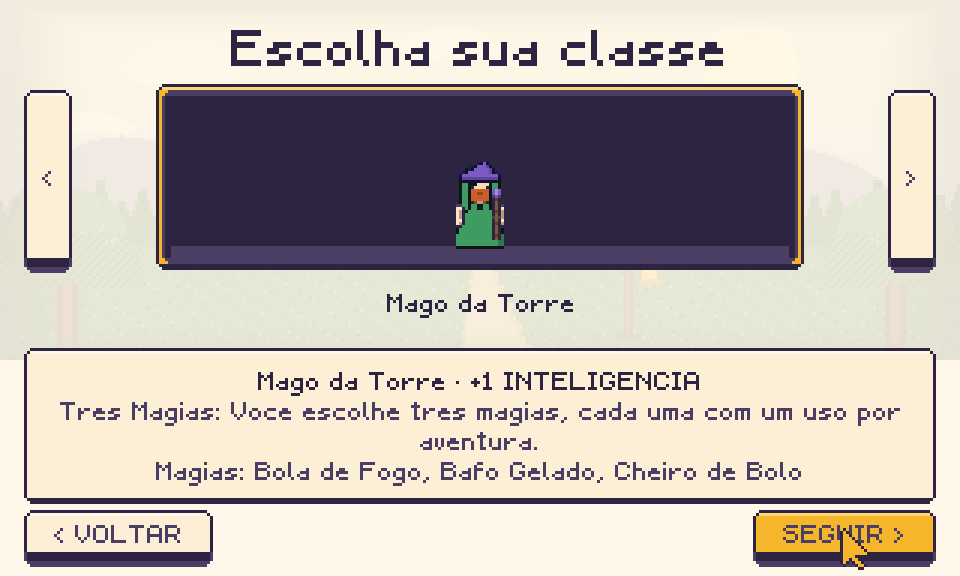
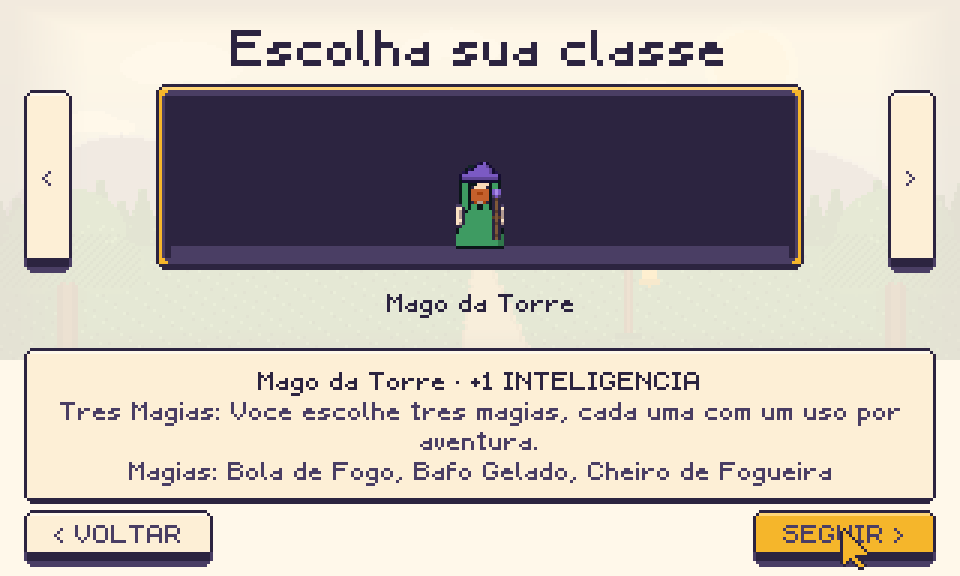
Liga as marcas as condicoes de verdade, e refeitura de 8 das 11 magias
O jogo de verdade nunca chamava aplicarMarca(): toda magia, mesmo as ja
animadas (Bafo Gelado, Bola de Fogo), so causava dano generico. A marca
existia so no papel. Agora Combate.ts aplica a marca de cada acao no bicho
atingido, guarda a lista de condicoes por Bicho e desenha um quadrado
colorido acima da cabeca pra cada uma, sem nunca empilhar.

aplicarMarca() ganha seis reacoes novas (luz revela quem tava escondido,
planta/cola prende, doce atrai, bolha protege, som-alto assusta), as que as
magias de debuff e buff desta leva realmente carregam. Fogo/agua (que pede
superficie de chao) e vento/pulo/conserto/fala/corta/quebra/empurra (efeito
direto, nao condicao) ficam de fora de proposito, documentado no cabecalho
do arquivo.

8 das 13 magias trocam de nome e texto pra soar menos infantil (Cheiro de
Bolo -> Cheiro de Fogueira, Sumir-Sumindo -> Veu de Sombra, Dedo Colante ->
Aderencia, etc); as que ja soavam adultas ou eram puramente funcionais
ficam como estao, caso a caso. Os ids nao mudam, entao heroi.magias,
CLASSES.magias, TABELA_DE_MAGIA e MAGIAS_SOM continuam validos.

Confirmado ao vivo: Cresce-Grama (marca planta) lancado num lobo-nevoa
aplicou "preso" e desenhou o quadrado verde acima dele, sem erro no
console.

npm run build, condicoes, conferir, criatura e auditar (36 telas, 0
problemas) saem limpos.

Changed region(s): [[0.125, 0.7812, 0.875, 0.8438]]

diff --git a/src/cenas/Combate.ts b/src/cenas/Combate.ts
@@ -27,6 +27,8 @@ import type { Atributo } from "../dados/conteudo";
 import { tocar, tocarFicha } from "../sistemas/som";
 import { texto } from "../sistemas/texto";
 import { Ordem } from "../sistemas/turnos";
+import { aplicarMarca, type Condicao, type Marca } from "../sistemas/marcas";
+import { condicoesDados } from "../dados/condicoes-dados";
 import type { Mundo } from "./Mundo";
 
 const SLOT = 22;
@@ -53,6 +55,10 @@ type Bicho = {
   pips?: Phaser.GameObjects.Container;
   mostrarAte: number;
   rota: Casa[];
+  /** revisao de 2026-09-04: antes disto, `acao.marca` nunca era lido - toda
+   *  magia so causava dano generico, por baixo do efeito visual bonito. */
+  condicoes: Condicao[];
+  condicoesUI?: Phaser.GameObjects.Container;
 };
 
 type Slot = {
@@ -242,7 +248,7 @@ export class Combate extends Phaser.Scene {
       id, bicharioId, chave, nome, bonus,
       retrato: ICONE.retrato[spriteChave.replace("goblin-", "")] ?? 1,
       sprite: s, corpo: s.body as Phaser.Physics.Arcade.Body, tipo: "goblin",
-      coracoes, coracoesMax: coracoes, mostrarAte: 0, rota: [],
+      coracoes, coracoesMax: coracoes, mostrarAte: 0, rota: [], condicoes: [],
     });
   }
 
@@ -708,7 +714,10 @@ export class Combate extends Phaser.Scene {
             projetilOrientado(this, this.heroi.x, this.heroi.y - 8, px, py, 0x7ec4f2, 5, 6, 160, () => {
               pegos
                 .filter((b) => this.mesmaCasa(this.casaDoBicho(b), c.tx, c.ty))
-                .forEach((b) => this.atingir(b, px, py, resultado.desfecho === "critico-sucesso", "gelo"));
+                .forEach((b) => {
+                  this.atingir(b, px, py, resultado.desfecho === "critico-sucesso", "gelo");
+                  if (acao.marca) this.aplicarMarcaNoBicho(b, acao.marca);
+                });
             });
           });
         });
@@ -723,7 +732,10 @@ export class Combate extends Phaser.Scene {
         // Bola de Fogo trava.
         ondaDeConjuracao(this, this.heroi.x, this.heroi.y, 0xf2802b, 16);
         projetil(this, this.heroi.x, this.heroi.y - 8, cx, cy, 0xf2802b, 3, 220, () => {
-          pegos.forEach((b) => this.atingir(b, cx, cy, resultado.desfecho === "critico-sucesso"));
+          pegos.forEach((b) => {
+            this.atingir(b, cx, cy, resultado.desfecho === "critico-sucesso");
+            if (acao.marca) this.aplicarMarcaNoBicho(b, acao.marca);
+          });
           estourinho(this, cx, cy, 0xf2802b, 8, 12);
           hitstop(this, 60);
           this.cameras.main.shake(100, 0.003);
@@ -731,7 +743,14 @@ export class Combate extends Phaser.Scene {
         });
         return;
       } else {
-        pegos.forEach((b) => this.atingir(b, cx, cy, resultado.desfecho === "critico-sucesso"));
+        pegos.forEach((b) => {
+          this.atingir(b, cx, cy, resultado.desfecho === "critico-sucesso");
+          // e aqui que as 11 magias sem animacao propria (Cresce-Grama, Voz
+          // de Trovao, Cheiro de Fogueira, Rajada...) ganham reacao de
+          // verdade, mesmo sem projetil dedicado - o dano generico continua,
+          // a marca por cima e o que muda de verdade.
+          if (acao.marca) this.aplicarMarcaNoBicho(b, acao.marca);
+        });
         // o martelo pesa mais que espada, cajado ou soco: o mesmo golpe corpo
         // a corpo (passo 3 do plano), so essa arma ganha o micro-engasgo.
         if (acao.id === "golpe-martelo") hitstop(this, 50);
@@ -854,6 +873,7 @@ export class Combate extends Phaser.Scene {
     this.bichos = this.bichos.filter((o) => o !== b);
     b.corpo?.setVelocity(0, 0);
     b.pips?.destroy();
+    b.condicoesUI?.destroy();
     if (b.tipo === "goblin") {
       tocarFicha(CRIATURAS_SOM.pequeno.desiste);
       if (b.chave) {
@@ -910,6 +930,39 @@ export class Combate extends Phaser.Scene {
     b.pips = this.add.container(b.sprite.x, b.sprite.y - 36, [g]).setDepth(2000);
     b.pips.setScale(0.6);
     this.tweens.add({ targets: b.pips, scale: 1, duration: 140, ease: "Back.easeOut" });
+  }
+
+  /** As condicoes de verdade acima da cabeca (acima dos coracoes) - MOLHADO,
+   *  PRESO, ASSUSTADO etc, no mesmo molde que Provador.ts ja usava. Max 3
+   *  visiveis: as 11 magias novas raramente empilham mais que isso numa
+   *  criatura so, e "+N" pode esperar o dia que empilhar. */
+  private mostrarCondicoes(b: Bicho) {
+    b.condicoesUI?.destroy();
+    if (b.condicoes.length === 0) return;
+    const visiveis = b.condicoes.slice(0, 3);
+    const largura = visiveis.length * 10 - 2;
+    const g = this.add.graphics();
+    visiveis.forEach((cond, i) => {
+      const ficha = condicoesDados(cond.id);
+      const x = -largura / 2 + i * 10;
+      g.fillStyle(ficha.cor, 1).fillRect(x, 0, 8, 8);
+      g.lineStyle(1, 0x2c2440, 0.8).strokeRect(x + 0.5, 0.5, 7, 7);
+    });
+    b.condicoesUI = this.add.container(b.sprite.x, b.sprite.y - 46, [g]).setDepth(2000);
+    popIn(this, b.condicoesUI, 140, 0.6);
+  }
+
+  /** O elo que faltava entre `acao.marca` (que so alimentava a cor do efeito
+   *  visual) e o motor de condicoes de verdade - antes desta revisao (2026-
+   *  09-04) NENHUMA magia do jogo real chamava `aplicarMarca()`, nem Bafo
+   *  Gelado ou Bola de Fogo. As condicoes aplicadas aqui ainda nao contam os
+   *  proprios turnos (isso pede passarTurno() rodando em entrarNoTurno(),
+   *  fica pro proximo passo) - mas a marca agora MUDA o bicho de verdade, em
+   *  vez de so colorir um flash. */
+  private aplicarMarcaNoBicho(b: Bicho, marca: Marca) {
+    const resultado = aplicarMarca(marca, b.condicoes);
+    b.condicoes = resultado.condicoesNovas;
+    this.mostrarCondicoes(b);
   }
 
   // =================================================================== update
@@ -1030,11 +1083,15 @@ export class Combate extends Phaser.Scene {
   private cuidarDosPips() {
     const agora = this.time.now;
     this.bichos.forEach((b) => {
-      if (!b.pips) return;
-      b.pips.setPosition(b.sprite.x, b.sprite.y - 36);
-      if (agora > b.mostrarAte && b.pips.alpha > 0) {
-        b.pips.setAlpha(Math.max(0, b.pips.alpha - 0.04));
+      if (b.pips) {
+        b.pips.setPosition(b.sprite.x, b.sprite.y - 36);
+        if (agora > b.mostrarAte && b.pips.alpha > 0) {
+          b.pips.setAlpha(Math.max(0, b.pips.alpha - 0.04));
+        }
       }
+      // condicoes nunca desbotam sozinhas (diferente dos pips de dano) -
+      // elas representam um estado que continua valendo, so seguem o bicho.
+      b.condicoesUI?.setPosition(b.sprite.x, b.sprite.y - 46);
     });
   }
 

diff --git a/src/dados/conteudo.ts b/src/dados/conteudo.ts
@@ -217,19 +217,26 @@ export const CLASSES: Classe[] = [
 // ---------------------------------------------------------------- magias
 export type Magia = { id: string; nome: string; texto: string; cor: number };
 
+/** Revisao de 2026-09-04: oito das treze ganharam nome e clima novos, "caso a
+ *  caso" como o Hugo pediu - nao um reskin em bloco. O `id` de cada uma NAO
+ *  mudou (evita quebrar heroi.magias salvo, CLASSES.magias, TABELA_DE_MAGIA
+ *  em sistemas/acao.ts e MAGIAS_SOM em dados/sons.ts, que continuam
+ *  referenciando o id antigo) - so o que o jogador LE mudou. As que ja
+ *  soavam adultas (Voz de Trovao, Bafo Gelado, Bola de Fogo) ou ja eram so
+ *  funcionais (Cresce-Grama, Remendo) ficaram como estavam. */
 export const MAGIAS: Magia[] = [
-  { id: "luzinha", nome: "Luzinha", texto: "Uma bolinha de luz flutua e ilumina o caminho.", cor: 0xf5b62b },
+  { id: "luzinha", nome: "Fogo-Fatuo", texto: "Uma luz fraca que ilumina o escuro e revela quem estava escondido.", cor: 0xf5b62b },
   { id: "bafo-gelado", nome: "Bafo Gelado", texto: "Um sopro que congela agua, fogo e ate goblin.", cor: 0x7ec4f2 },
-  { id: "cresce-grama", nome: "Cresce-Grama", texto: "A grama cresce alta e vira escada, corda ou esconderijo.", cor: 0x3e9b62 },
-  { id: "voz-de-trovao", nome: "Voz de Trovao", texto: "Sua voz fica tao alta que todo mundo para pra ouvir.", cor: 0x4a3e64 },
-  { id: "pulo-de-sapo", nome: "Pulo de Sapo", texto: "Um pulo enorme, por cima de rio, muro ou monstro.", cor: 0x3e9b62 },
-  { id: "dedo-colante", nome: "Dedo Colante", texto: "Suas maos grudam em qualquer parede.", cor: 0xee7ba6 },
-  { id: "remendo", nome: "Remendo", texto: "Junta de volta uma coisa quebrada.", cor: 0xb08658 },
-  { id: "escudo-de-bolha", nome: "Escudo de Bolha", texto: "Uma bolha te protege de um golpe.", cor: 0x7ec4f2 },
-  { id: "cheiro-de-bolo", nome: "Cheiro de Bolo", texto: "Um cheirinho irresistivel atrai todo mundo pro mesmo lugar.", cor: 0xf5b62b },
-  { id: "fala-bicho", nome: "Fala Bicho", texto: "Voce entende e fala com qualquer bicho.", cor: 0x3e9b62 },
-  { id: "sumir-sumindo", nome: "Sumir-Sumindo", texto: "Voce fica invisivel enquanto ficar quietinho.", cor: 0x4a3e64 },
-  { id: "chama-vento", nome: "Chama-Vento", texto: "Um vento forte empurra tudo que estiver na frente.", cor: 0xcde9f8 },
+  { id: "cresce-grama", nome: "Cresce-Grama", texto: "A vegetacao cresce na hora: vira escada, corda ou esconderijo.", cor: 0x3e9b62 },
+  { id: "voz-de-trovao", nome: "Voz de Trovao", texto: "Um grito que ecoa longe o bastante pra fazer qualquer um parar.", cor: 0x4a3e64 },
+  { id: "pulo-de-sapo", nome: "Salto Longo", texto: "Um impulso que atravessa rio, muro ou inimigo de um salto so.", cor: 0x3e9b62 },
+  { id: "dedo-colante", nome: "Aderencia", texto: "As maos grudam em qualquer superficie por um instante - sobe parede, atravessa teto.", cor: 0xee7ba6 },
+  { id: "remendo", nome: "Remendo", texto: "Conserta na hora o que quebrou.", cor: 0xb08658 },
+  { id: "escudo-de-bolha", nome: "Barreira", texto: "Uma camada invisivel absorve o proximo golpe.", cor: 0x7ec4f2 },
+  { id: "cheiro-de-bolo", nome: "Cheiro de Fogueira", texto: "Um cheiro de fumaca que atrai qualquer bicho de longe.", cor: 0xf5b62b },
+  { id: "fala-bicho", nome: "Lingua Selvagem", texto: "Por um tempo, voce entende e e entendido por qualquer bicho.", cor: 0x3e9b62 },
+  { id: "sumir-sumindo", nome: "Veu de Sombra", texto: "As sombras escondem voce, enquanto ficar parado.", cor: 0x4a3e64 },
+  { id: "chama-vento", nome: "Rajada", texto: "Um vento forte empurra tudo pela frente - e alimenta o fogo que ja estava queimando.", cor: 0xcde9f8 },
   { id: "bola-de-fogo", nome: "Bola de Fogo", texto: "Uma bola de fogo que voa numa direcao. Goblin aguenta, gelo nao.", cor: 0xf2802b },
 ];
 

diff --git a/src/sistemas/marcas.ts b/src/sistemas/marcas.ts
@@ -2,10 +2,15 @@
  *  pura, sem Phaser. Ver docs/11-combate-e-magias.md secao 7 (a gramatica
  *  MARCA + FORMA) e docs/mundo-que-reage.md secao 3 (a tabela inteira).
  *
- * Versao MINIMA desta fase: so a linha que envolve `gelo`/`molhado` existe de
- * verdade. As outras dezesseis combinacoes da tabela completa entram na
- * Fase 4, junto com as superficies de chao — a maioria delas muda o CHAO, nao
- * so a criatura, e superficie ainda nao existe no jogo.
+ * Revisao de 2026-09-04, junto da reformulacao das 11 magias restantes: sete
+ * marcas tratadas agora (gelo, luz, planta, cola, doce, bolha, som-alto), as
+ * seis novas sao as que as magias de debuff/buff realmente carregam. Nao
+ * entraram ainda: fogo/agua (a interacao completa com gelo, que pede
+ * superficie de chao pra fazer sentido - Fase 4/10 do plano) e vento/pulo/
+ * conserto/fala/invisivel/corta/quebra/empurra (efeito DIRETO, nunca uma
+ * condicao - tabela de "vem de" que pede sistema proprio: mover o heroi,
+ * consertar objeto, abrir dialogo. Ver docs/mundo-que-reage.md secao 3, a
+ * linha final da tabela).
  *
  * A funcao nunca "erra": se a marca nao acha reacao, devolve um resultado
  * vazio e o efeito visual acontece do mesmo jeito (isso e responsabilidade de
@@ -46,7 +51,33 @@ export function aplicarMarca(marca: Marca, condicoesDoAlvo: Condicao[]): Resulta
     return { condicoesNovas: condicoesDoAlvo };
   }
 
-  // as outras dezesseis marcas ainda nao tem reacao propria nesta fase.
+  if (marca === "luz") {
+    // luz revela quem estava escondido (docs/mundo-que-reage.md secao 3) -
+    // "invisivel" e nome de MARCA, nao de condicao (Sumir-Sumindo e efeito
+    // direto no heroi, nunca uma condicao de bicho); a condicao equivalente
+    // no union de IdCondicao e "escondido".
+    const semEsconderijo = condicoesDoAlvo.filter((c) => c.id !== "escondido");
+    return { condicoesNovas: aplicar(semEsconderijo, { id: "iluminado", turnosRestantes: 20 }) };
+  }
+
+  if (marca === "planta" || marca === "cola") {
+    return { condicoesNovas: aplicar(condicoesDoAlvo, { id: "preso", turnosRestantes: 2 }) };
+  }
+
+  if (marca === "doce") {
+    return { condicoesNovas: aplicar(condicoesDoAlvo, { id: "atraido", turnosRestantes: 3 }) };
+  }
+
+  if (marca === "bolha") {
+    return { condicoesNovas: aplicar(condicoesDoAlvo, { id: "protegido", turnosRestantes: 3 }) };
+  }
+
+  if (marca === "som-alto") {
+    return { condicoesNovas: aplicar(condicoesDoAlvo, { id: "assustado", turnosRestantes: 2 }) };
+  }
+
+  // fogo, agua, vento, pulo, conserto, fala, invisivel, corta, quebra,
+  // empurra: ainda sem reacao propria aqui (ver o comentario do arquivo).
   return { condicoesNovas: condicoesDoAlvo };
 }
 

diff --git a/src/dados/condicoes-dados.ts b/src/dados/condicoes-dados.ts
@@ -3,12 +3,13 @@
  *  sistemas/condicoes.ts; a decisao de quando aplicar mora em
  *  sistemas/marcas.ts. Aqui e so "como e que isso se parece".
  *
- * So MOLHADO e CONGELADO tem ficha por enquanto, de proposito (ver
- * docs/plano-de-implementacao.md, Fase 3.3). As outras dez do union de
- * `IdCondicao` ainda nao tem comportamento, entao nao ganham desenho — quem
- * for exibir usa `condicoesDados(id)` e recebe uma ficha cinza generica em
- * vez de undefined, para nunca faltar cor no meio de uma fileira de icones.
- */
+ * Seis condicoes tem ficha (revisao de 2026-09-04, junto da reformulacao das
+ * 11 magias restantes): as duas que ja existiam (molhado, congelado) mais as
+ * quatro que `aplicarMarca()` passou a aplicar de verdade (preso, assustado,
+ * atraido, iluminado). As outras sete do union de `IdCondicao` ainda nao tem
+ * comportamento nenhum te aplicando - quem for exibir usa `condicoesDados(id)`
+ * e recebe uma ficha cinza generica em vez de undefined, para nunca faltar
+ * cor no meio de uma fileira de icones. */
 import type { IdCondicao } from "../sistemas/condicoes";
 
 export type FichaCondicao = {
@@ -23,6 +24,10 @@ const GENERICA: FichaCondicao = { nome: "?", cor: 0x4a3e64 };
 export const CONDICOES_DADOS: Partial<Record<IdCondicao, FichaCondicao>> = {
   molhado: { nome: "MOLHADO", cor: 0x2f6fb5 },
   congelado: { nome: "CONGELADO", cor: 0xcde9f8 },
+  preso: { nome: "PRESO", cor: 0x3e9b62 },
+  assustado: { nome: "ASSUSTADO", cor: 0x7b5ac4 },
+  atraido: { nome: "ATRAIDO", cor: 0xf5b62b },
+  iluminado: { nome: "ILUMINADO", cor: 0xfff8ea },
 };
 
 export function condicoesDados(id: IdCondicao): FichaCondicao {

diff --git a/ferramentas/auditoria-ui.md b/ferramentas/auditoria-ui.md
@@ -27,7 +27,7 @@ Problemas encontrados: 0
 | 15-carregar | Carregar:30 Som:0 Ponteiro:1 | 0 |
 | perto-02-criacao-raca | Criacao:34 Som:0 Ponteiro:1 | 0 |
 | perto-03-criacao-raca-pequenino | Criacao:34 Som:0 Ponteiro:1 | 0 |
-| perto-04-criacao-classe | Criacao:37 Som:0 Ponteiro:1 | 0 |
+| perto-04-criacao-classe | Criacao:38 Som:0 Ponteiro:1 | 0 |
 | perto-05-criacao-classe-cavaleiro | Criacao:36 Som:0 Ponteiro:1 | 0 |
 | perto-06-criacao-poder | Criacao:44 Som:0 Ponteiro:1 | 0 |
 | perto-07-criacao-heroi | Criacao:102 Som:0 Ponteiro:1 | 0 |
